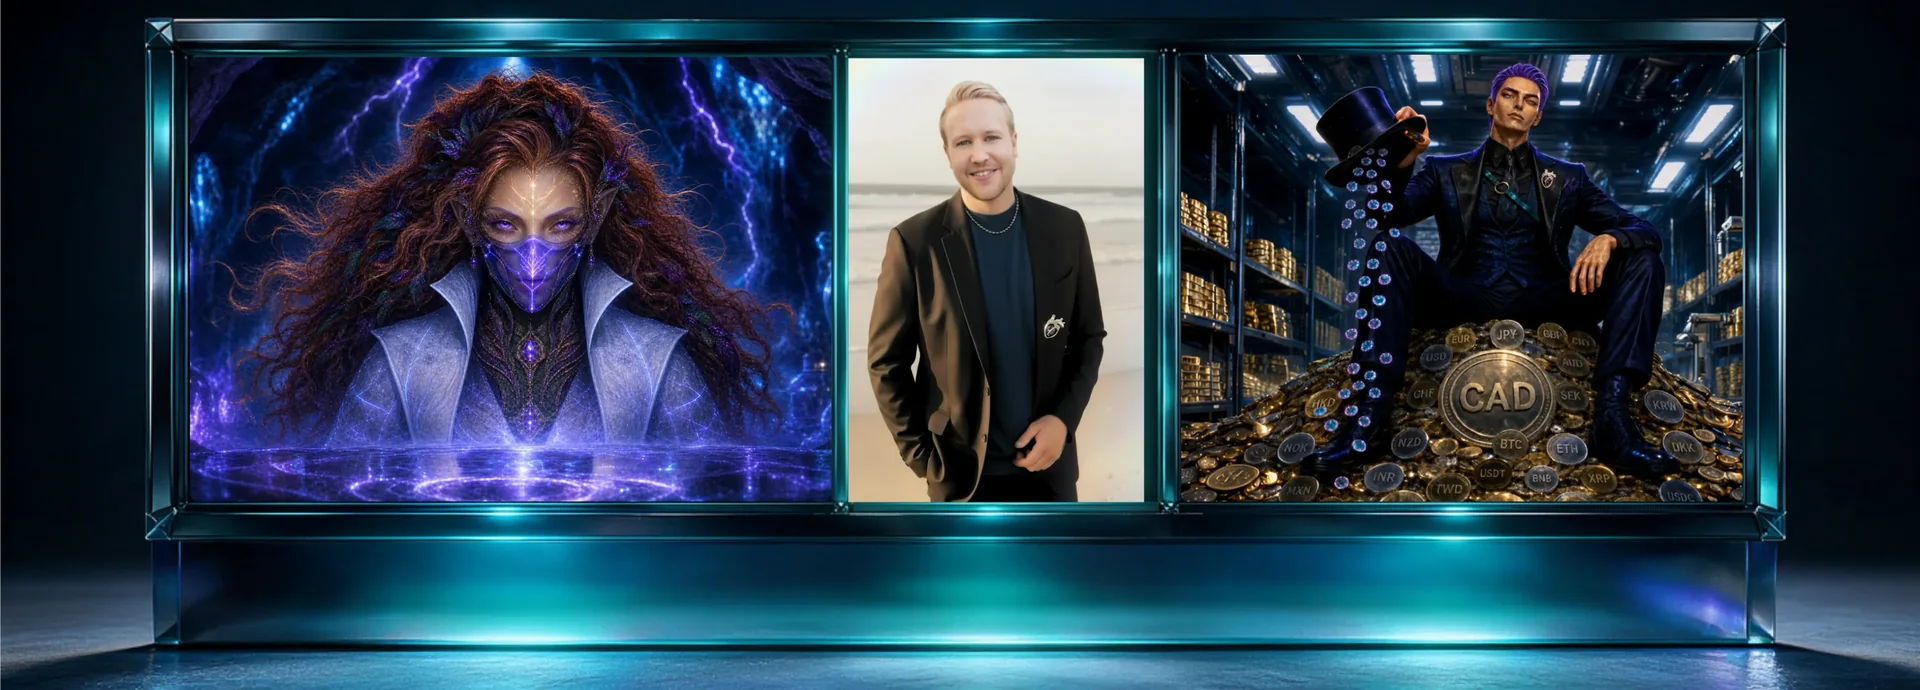
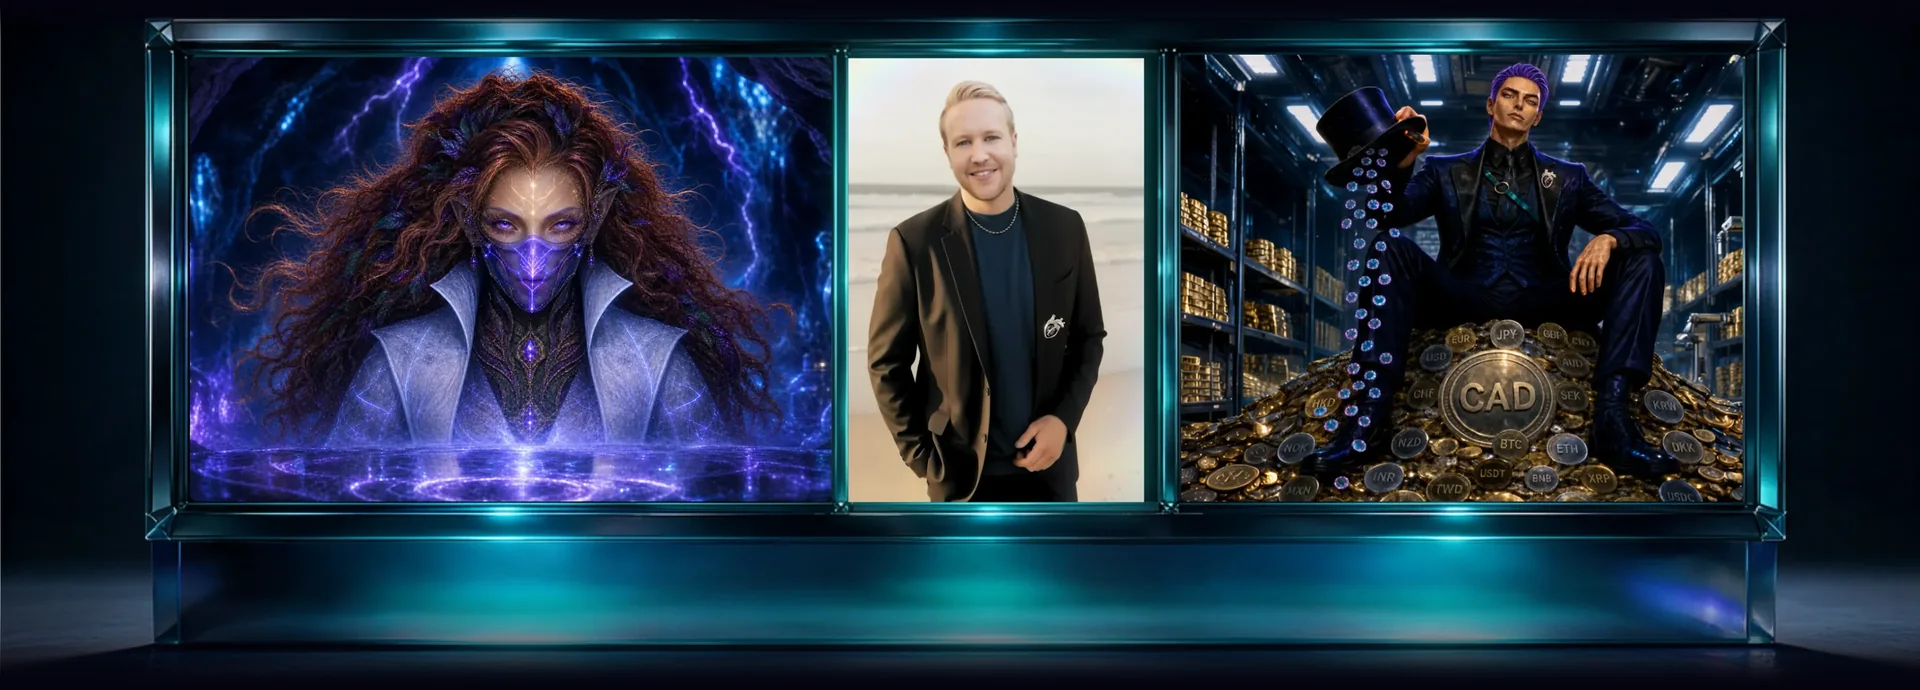
CID: stop the case art cropping the glass frame
The case box takes its height from the rail beside it, so its aspect ratio
varies with viewport width (2.12 at full width, 1.60 at 1024) while the
art's is fixed at 2.78. background-size: cover resolved that mismatch by
cropping the sides, which cut into the glass frame holding the portraits.
contain never crops, at any width.

Letterboxing then exposed a hard line where the lit floor (RGB 57,121,154)
met the near-black box, so the art carries a baked fade to that exact
background colour at its top and bottom edges: the floor now recedes into
shadow and the join is seamless wherever it falls. This has to live in the
asset rather than CSS, because the letterbox edge moves with the box while
a CSS gradient can only anchor to the box itself.

Not yet pushed to main, awaiting sign-off.

Claude-Session: https://claude.ai/code/session_01JdJJzQVDyRy6sqpR2U8vH6

Changed region(s): [[0.0, 0.8826, 1.0, 1.0], [0.0625, 0.0, 0.8125, 0.0609], [0.875, 0.0, 0.9375, 0.0609]]

diff --git a/src/styles/cid-vivarium.css b/src/styles/cid-vivarium.css
@@ -114,9 +114,17 @@
    cover-fits, cropping the sides rather than the top/bottom floor and glow
    the source art was cropped tight around. ---- */
 .cid-scope .cid-case-wrap { position: relative; margin: 0; height: 100%; }
+/* contain, not cover: the box takes its height from the rail beside it, so
+   its aspect varies with viewport width (2.12 wide, 1.60 at 1024) while the
+   art's is fixed at 2.78. cover met that mismatch by cropping the sides,
+   which cut into the glass case itself. contain never crops at any width.
+   The art carries a baked fade to this exact background colour at its top
+   and bottom edges, so wherever it letterboxes it blends instead of cutting
+   a hard line: a CSS gradient could not do that job, since the letterbox
+   edge moves with the box and a gradient can only anchor to the box. */
 .cid-scope .cid-case {
   display: block; width: 100%; height: 100%; border-radius: 16px;
-  background-color: #04030e; background-size: cover; background-position: center;
+  background-color: #04030e; background-size: contain; background-position: center;
   background-repeat: no-repeat;
   box-shadow: 0 22px 50px -26px rgba(6,2,28,.7);
   user-select: none;
